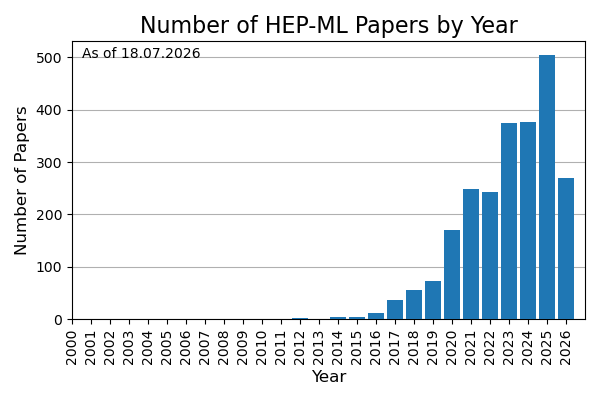
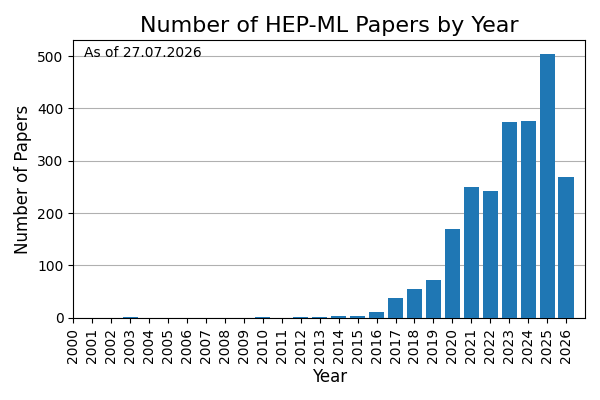
Update final figure chart

diff --git a/make_md.py b/make_md.py
@@ -7,6 +7,7 @@ import requests
 update_journal = False
 update_recent = False
 update_plot = False
+update_plot_pdf = False
 
 myfile = open("HEPML.tex", encoding="utf8")
 myfile_readme = open("README.md","w", encoding="utf8")
@@ -325,6 +326,49 @@ if update_plot:
                     verticalalignment='top', horizontalalignment='left',
                     transform=plt.gca().transAxes)
         plt.savefig(f'docs/assets/{name}', transparent=True)
+
+if update_plot_pdf:
+    import matplotlib.pyplot as plt
+    import numpy as np
+    print("Updating PDF plot")
+    plt.rcParams.update({"text.usetex": True,
+                        "font.family": "Helvetica"})
+    min_year = 2000
+    clean_list = []
+    for entry in YEARS_FOR_PLOT:
+        clean_list.append(int(entry.replace(" (", "").replace(")", "")))
+    years, counts = np.unique(clean_list, return_counts=True)
+    plt.figure(figsize=(6,4))
+    plt.bar(years, counts, zorder=5)
+    plt.ylabel(r"Number of Papers", fontsize=12)
+    plt.xlim(min_year, years.max()+1)
+    plt.grid(axis='y', zorder=0)
+    labels = np.arange(min_year, years.max()+1)
+    plt.gca().set_xticks(labels, [str(lbl) for lbl in labels], rotation=90, ha='center')
+    plt.xticks(rotation=90)
+    plt.tight_layout()
+    plt.ylim(0, counts.max()*1.1)
+    plt.gca().text(0.02, 0.98, f'As of 01.07.2026',
+                verticalalignment='top', horizontalalignment='left',
+                transform=plt.gca().transAxes)
+    plt.savefig(f'docs/assets/per_year.pdf', transparent=True)
+    plt.close()
+
+    plt.figure(figsize=(6,4))
+    plt.bar(years, counts, zorder=5)
+    plt.ylabel(r"Number of Papers", fontsize=12)
+    plt.xlim(min_year, years.max()+1)
+    plt.grid(axis='y', zorder=0)
+    labels = np.arange(min_year, years.max()+1)
+    plt.gca().set_xticks(labels, [str(lbl) for lbl in labels], rotation=90, ha='center')
+    plt.xticks(rotation=90)
+    plt.tight_layout()
+    plt.yscale('log')
+    plt.ylim(0, counts.max()*1.1)
+    plt.gca().text(0.02, 0.98, f'As of 01.07.2026',
+                verticalalignment='top', horizontalalignment='left',
+                transform=plt.gca().transAxes)
+    plt.savefig(f'docs/assets/per_year_log.pdf', transparent=True)
 
 
 def get_year_month(period_months=3):
